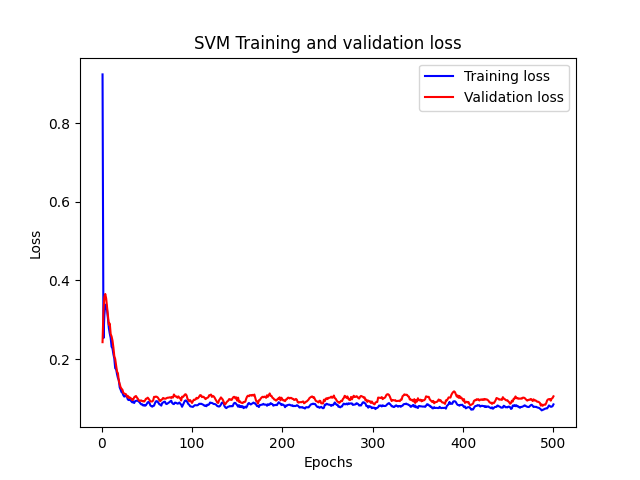
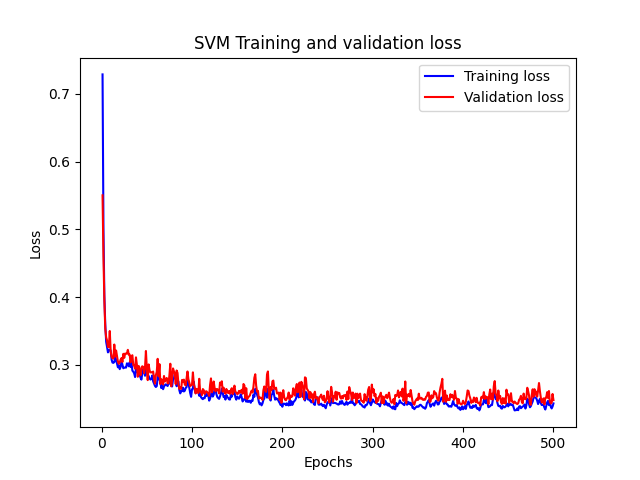
predictions done

diff --git a/network.py b/network.py
@@ -25,6 +25,7 @@ from xgboost import XGBClassifier
 import matplotlib.pyplot as plt
 from keras.regularizers import L1L2
 from tensorflow.keras.layers.experimental import RandomFourierFeatures
+from tensorflow import keras
 from keras.wrappers.scikit_learn import KerasClassifier
 from sklearn.ensemble import RandomForestRegressor, RandomForestClassifier
 from sklearn.tree import DecisionTreeClassifier
@@ -96,15 +97,15 @@ class Network:
         epochs = range(1, len(loss) + 1)
 
 
-        plt.plot(epochs, loss, 'b-', label='Training loss')
-        plt.plot(epochs, val_loss, 'r-', label='Validation loss')
-        plt.title('SVM Training and validation loss')
-        plt.xlabel('Epochs')
-        plt.ylabel('Loss')
-        plt.legend()
-        #plt.show()
-        plt.savefig("SVM  loss")
-        plt.clf()
+        # plt.plot(epochs, loss, 'b-', label='Training loss')
+        # plt.plot(epochs, val_loss, 'r-', label='Validation loss')
+        # plt.title('SVM Training and validation loss')
+        # plt.xlabel('Epochs')
+        # plt.ylabel('Loss')
+        # plt.legend()
+        # plt.savefig("SVM  loss")
+        # plt.show()
+        # plt.clf()
 
         acc = history.history['acc']
         val_acc = history.history['val_acc']
@@ -116,7 +117,7 @@ class Network:
         plt.ylabel('Accuracy')
         plt.legend()
         plt.savefig("SVM accuracy")
-        #plt.show()
+        plt.show()
         return
 
     def SVM_model2(self, path):
@@ -247,21 +248,21 @@ class Network:
         plt.xlabel('Epochs')
         plt.ylabel('Loss')
         plt.legend()
-        #plt.show()
         plt.savefig("logistic regression loss")
-        plt.clf()
-
-        acc = history.history['accuracy']
-        val_acc = history.history['val_accuracy']
-
-        plt.plot(epochs, acc, 'y-', label='Training acc')
-        plt.plot(epochs, val_acc, 'g-', label='Validation acc')
-        plt.title('Logistic Regression training and validation accuracy')
-        plt.xlabel('Epochs')
-        plt.ylabel('Accuracy')
-        plt.legend()
-        plt.savefig("logistic regression accuracy")
         plt.show()
+        # plt.clf()
+        #
+        # acc = history.history['accuracy']
+        # val_acc = history.history['val_accuracy']
+        #
+        # plt.plot(epochs, acc, 'y-', label='Training acc')
+        # plt.plot(epochs, val_acc, 'g-', label='Validation acc')
+        # plt.title('Logistic Regression training and validation accuracy')
+        # plt.xlabel('Epochs')
+        # plt.ylabel('Accuracy')
+        # plt.legend()
+        # plt.savefig("logistic regression accuracy")
+        # plt.show()
         return history
 
     def logistic_regression2(self, path):
@@ -326,18 +327,6 @@ class Network:
                               scale_pos_weight=1,
                               seed=27)
 
-        # # MAC BEST BELOW
-        # # model = XGBClassifier(learning_rate=0.01,
-        # #                       n_estimators=500,
-        # #                       max_depth=4,
-        # #                       min_child_weight=1,
-        # #                       gamma=1,
-        # #                       subsample=0.8,
-        # #                       colsample_bytree=0.8,
-        # #                       objective='binary:logistic',
-        # #                       nthread=4,
-        # #                       scale_pos_weight=1,
-        # #                       seed=27)
         evalset = [(train_data, train_labels), (test_data, test_labels)]
         model.fit(train_data, train_labels, eval_metric = "mlogloss", eval_set=evalset)
         score = model.score(test_data, test_labels)
@@ -347,17 +336,17 @@ class Network:
         for i, v in enumerate(importance):
             print('Feature: %0d, Score: %.5f' % (i, v))
         # # retrieve performance metrics
-        # results = model.evals_result()
-        # # plot learning curves
-        # plt.clf()
-        # plt.title('XGBoost training and validation loss')
-        # plt.plot(results['validation_0']['mlogloss'], label='train')
-        # plt.plot(results['validation_1']['mlogloss'], label='test')
-        # # show the legend
-        # plt.legend()
-        # plt.savefig("XGBoost loss")
-        # #plt.show()
-        # # show the plot
+        results = model.evals_result()
+        # plot learning curves
+        plt.clf()
+        plt.title('XGBoost training and validation loss')
+        plt.plot(results['validation_0']['mlogloss'], label='train')
+        plt.plot(results['validation_1']['mlogloss'], label='test')
+        # show the legend
+        plt.legend()
+        plt.savefig("XGBoost loss")
+        plt.show()
+        # show the plot
 
     def build_model(self, batch_size, nb_epoch):
         model = Sequential()
@@ -387,6 +376,7 @@ class Network:
         model.add(tf.keras.layers.Dense(256, input_shape=(self.num_features,), activation='relu'))
         model.add(tf.keras.layers.Dense(32, activation='relu'))
         model.add(tf.keras.layers.Dense(self.num_classes, activation='softmax'))
+        opt = keras.optimizers.RMSprop(learning_rate=0.004)
         model.compile(loss='mse', optimizer='rmsprop', metrics=['accuracy'])
 
         try:
@@ -400,12 +390,13 @@ class Network:
 
             history = model.fit(train_data,
                                 train_labels,
+                                validation_split=0.2,
                                 epochs=500,  # Keep low for now
                                 batch_size=512)
             acc = history.history['accuracy'][-1]
-            # val_acc = history.history['val_accuracy'][-1]
-            # loss = history.history['loss'][-1]
-            # val_loss = history.history['val_loss'][-1]
+            val_acc = history.history['val_accuracy'][-1]
+            loss = history.history['loss'][-1]
+            val_loss = history.history['val_loss'][-1]
             print('\n\nTrain Accuracy: ' + str(acc))
             # print('Validation Accuracy: ' + str(val_acc))
             # print('Loss: ' + str(loss))
@@ -422,8 +413,8 @@ class Network:
             #     print("Saved successful!")
             #
             # # Uncomment below to graph model performance
-            # d = Display(proc_time=self.proc_time, history=history, save=True)
-            # d.display_results()
+            d = Display(proc_time=self.proc_time, history=history, save=True)
+            d.display_results()
             # return history
         except ValueError as e:
             logging.exception(e)

diff --git a/main.py b/main.py
@@ -8,6 +8,7 @@
 # Main script to run our application
 # ==============================================================================
 from network import Network
+import numpy as np
 import matplotlib.pyplot as plt
 
 if __name__ == '__main__':
@@ -15,6 +16,7 @@ if __name__ == '__main__':
     # path = "./data/Master_LTE_PDCP_DL_Stats.xlsx"
     # path = "./data/Master_TEST_LTE_PDCP_UL_Stats.xlsx"
     path = "./data/Master_TEST2_LTE_PDCP_UL_Stats.xlsx"
+    # path = "./data/Master_LTE_PDCP_UL_Stats_Features.xlsx"
     # path = "./data/Master_LTE_PDCP_UL_Stats.xlsx"
     # path = "./data/Master_LTE_RRC_OTA_Packet_updated.xlsx"
     # path = "./data/Master_LTE_MAC_UL_Tx_Statistics.xlsx"
@@ -31,9 +33,9 @@ if __name__ == '__main__':
     n = Network()
     histories = []
     print("========LOGISTIC REGRESSION========")
-    # n.logistic_regression2(path)
+    # n.logistic_regression(path)
     print("========SVM========")
-    # n.SVM_model2(path)
+    # n.SVM_model(path)
     print("========KERAS========")
     dense_history = n.keras_model(path)
     print("========XG BOOST========")

diff --git a/preprocess.py b/preprocess.py
@@ -17,7 +17,7 @@ import matplotlib.pyplot as plt
 import seaborn as sns
 
 # service = ['airbnb', 'doordash']
-shopping = ['Amazon Shopping', 'Walmart', 'McDonalds', 'Macys', 'Zilow', 'doordash', 'airbnb']
+shopping = ['Starbucks', 'Walmart', 'McDonalds', 'Macys', 'Zilow', 'doordash', 'airbnb']
 tools = ['Google Chrome', 'Google Maps', 'Google Play', 'Gmail']
 entertainment = ['Twitch', 'Youtube', 'Imdb']
 social = ['Twitter', 'Snapchat', 'Reddit', 'Pinterest', 'New York Post', 'Linked In']
